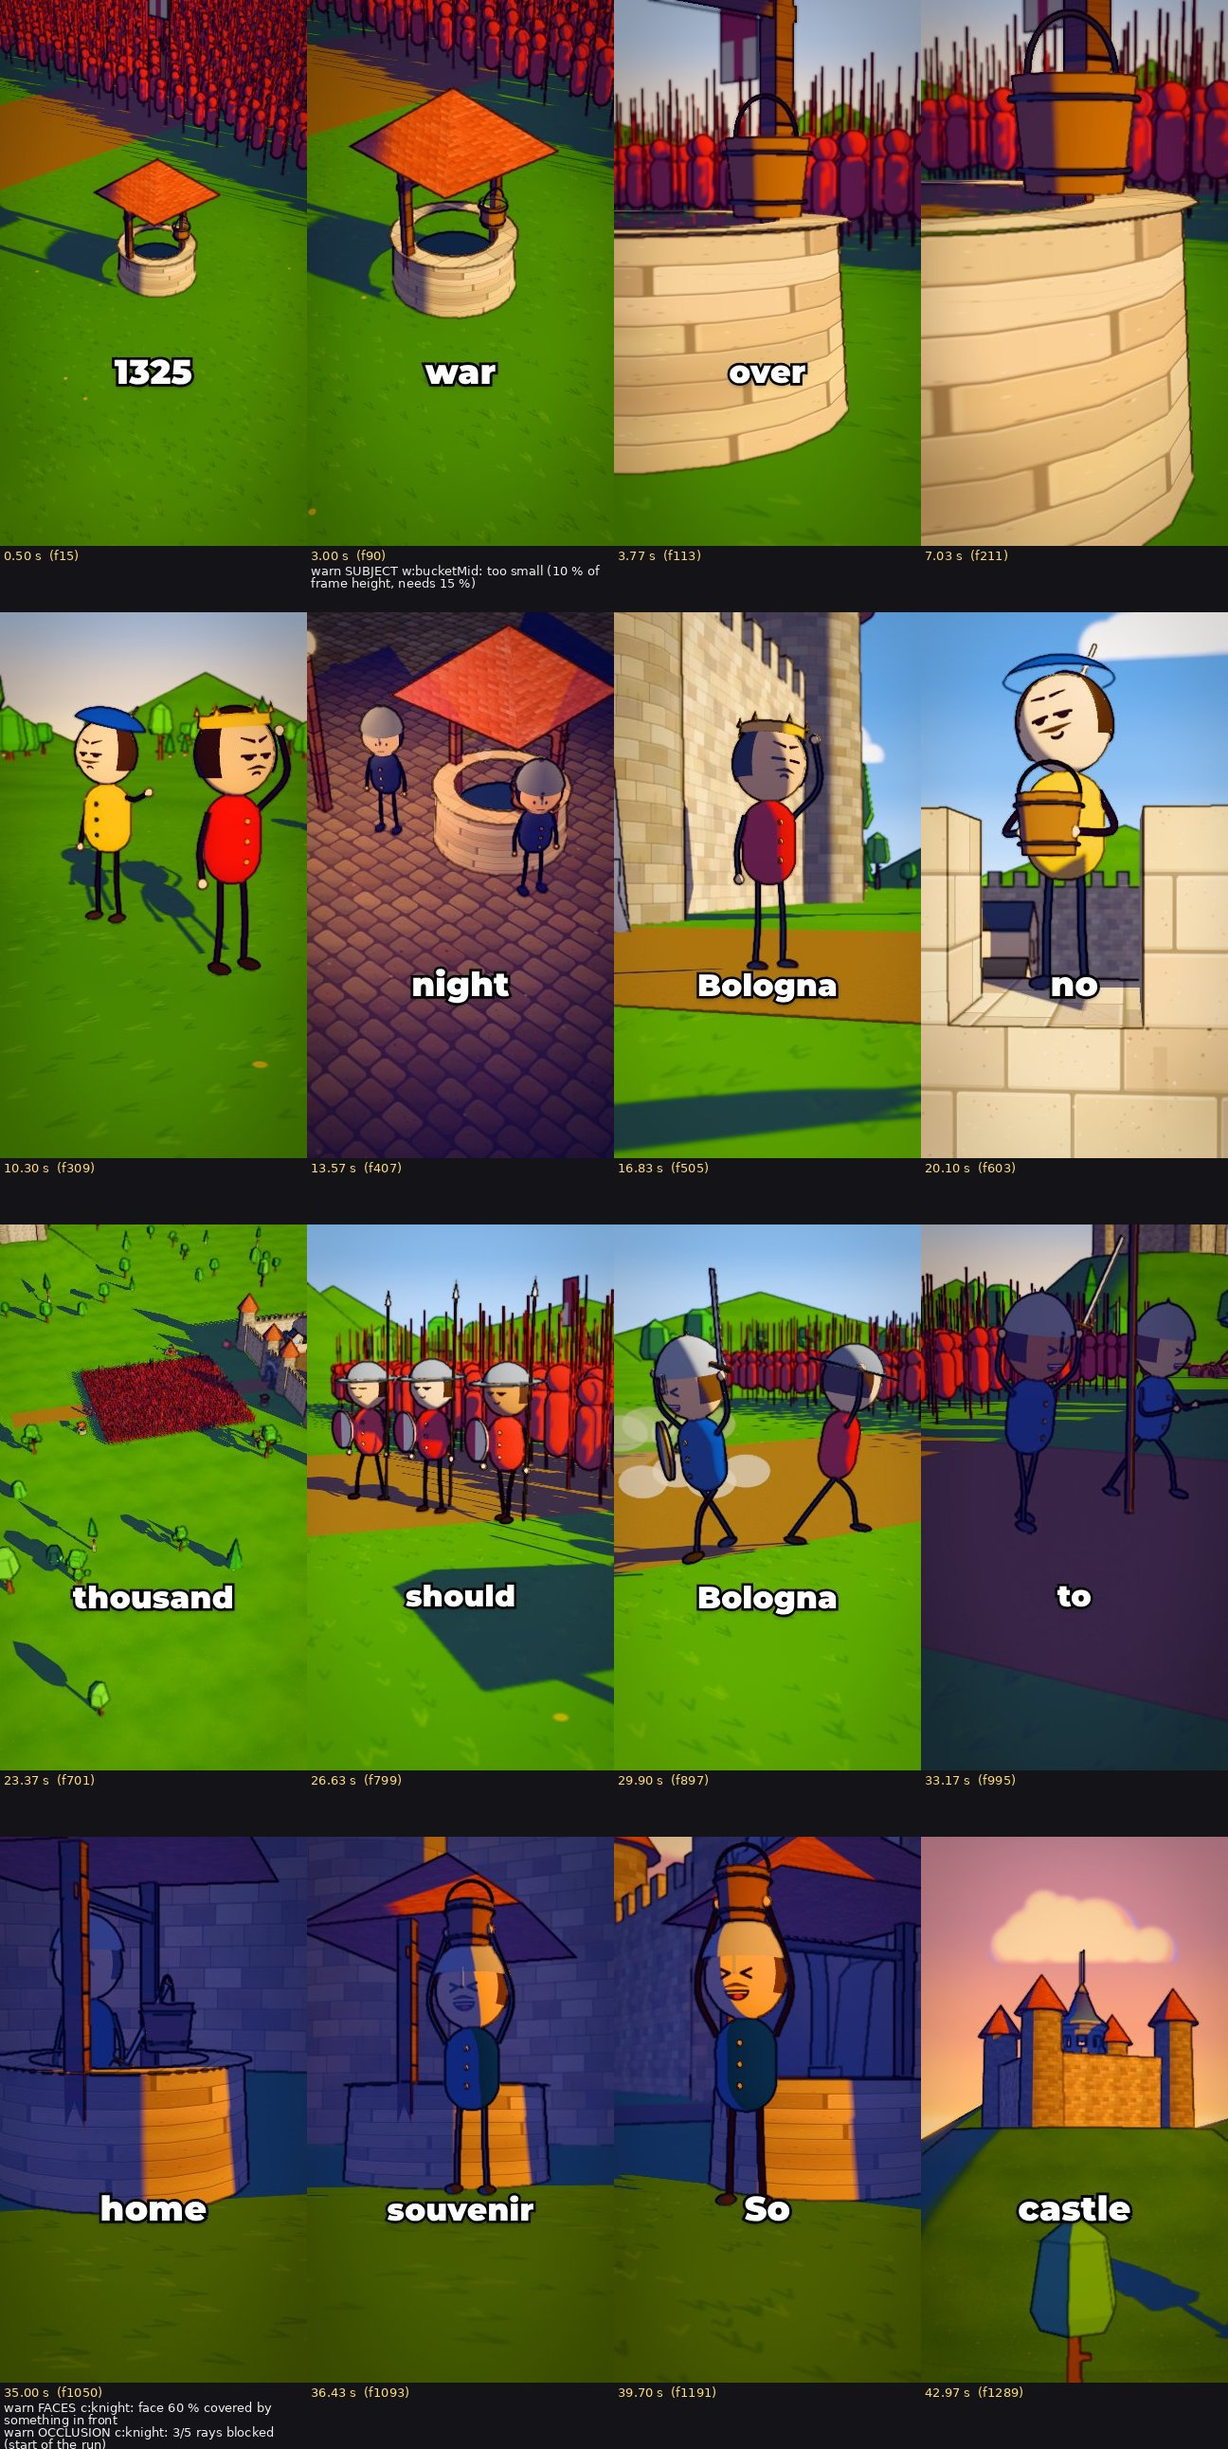
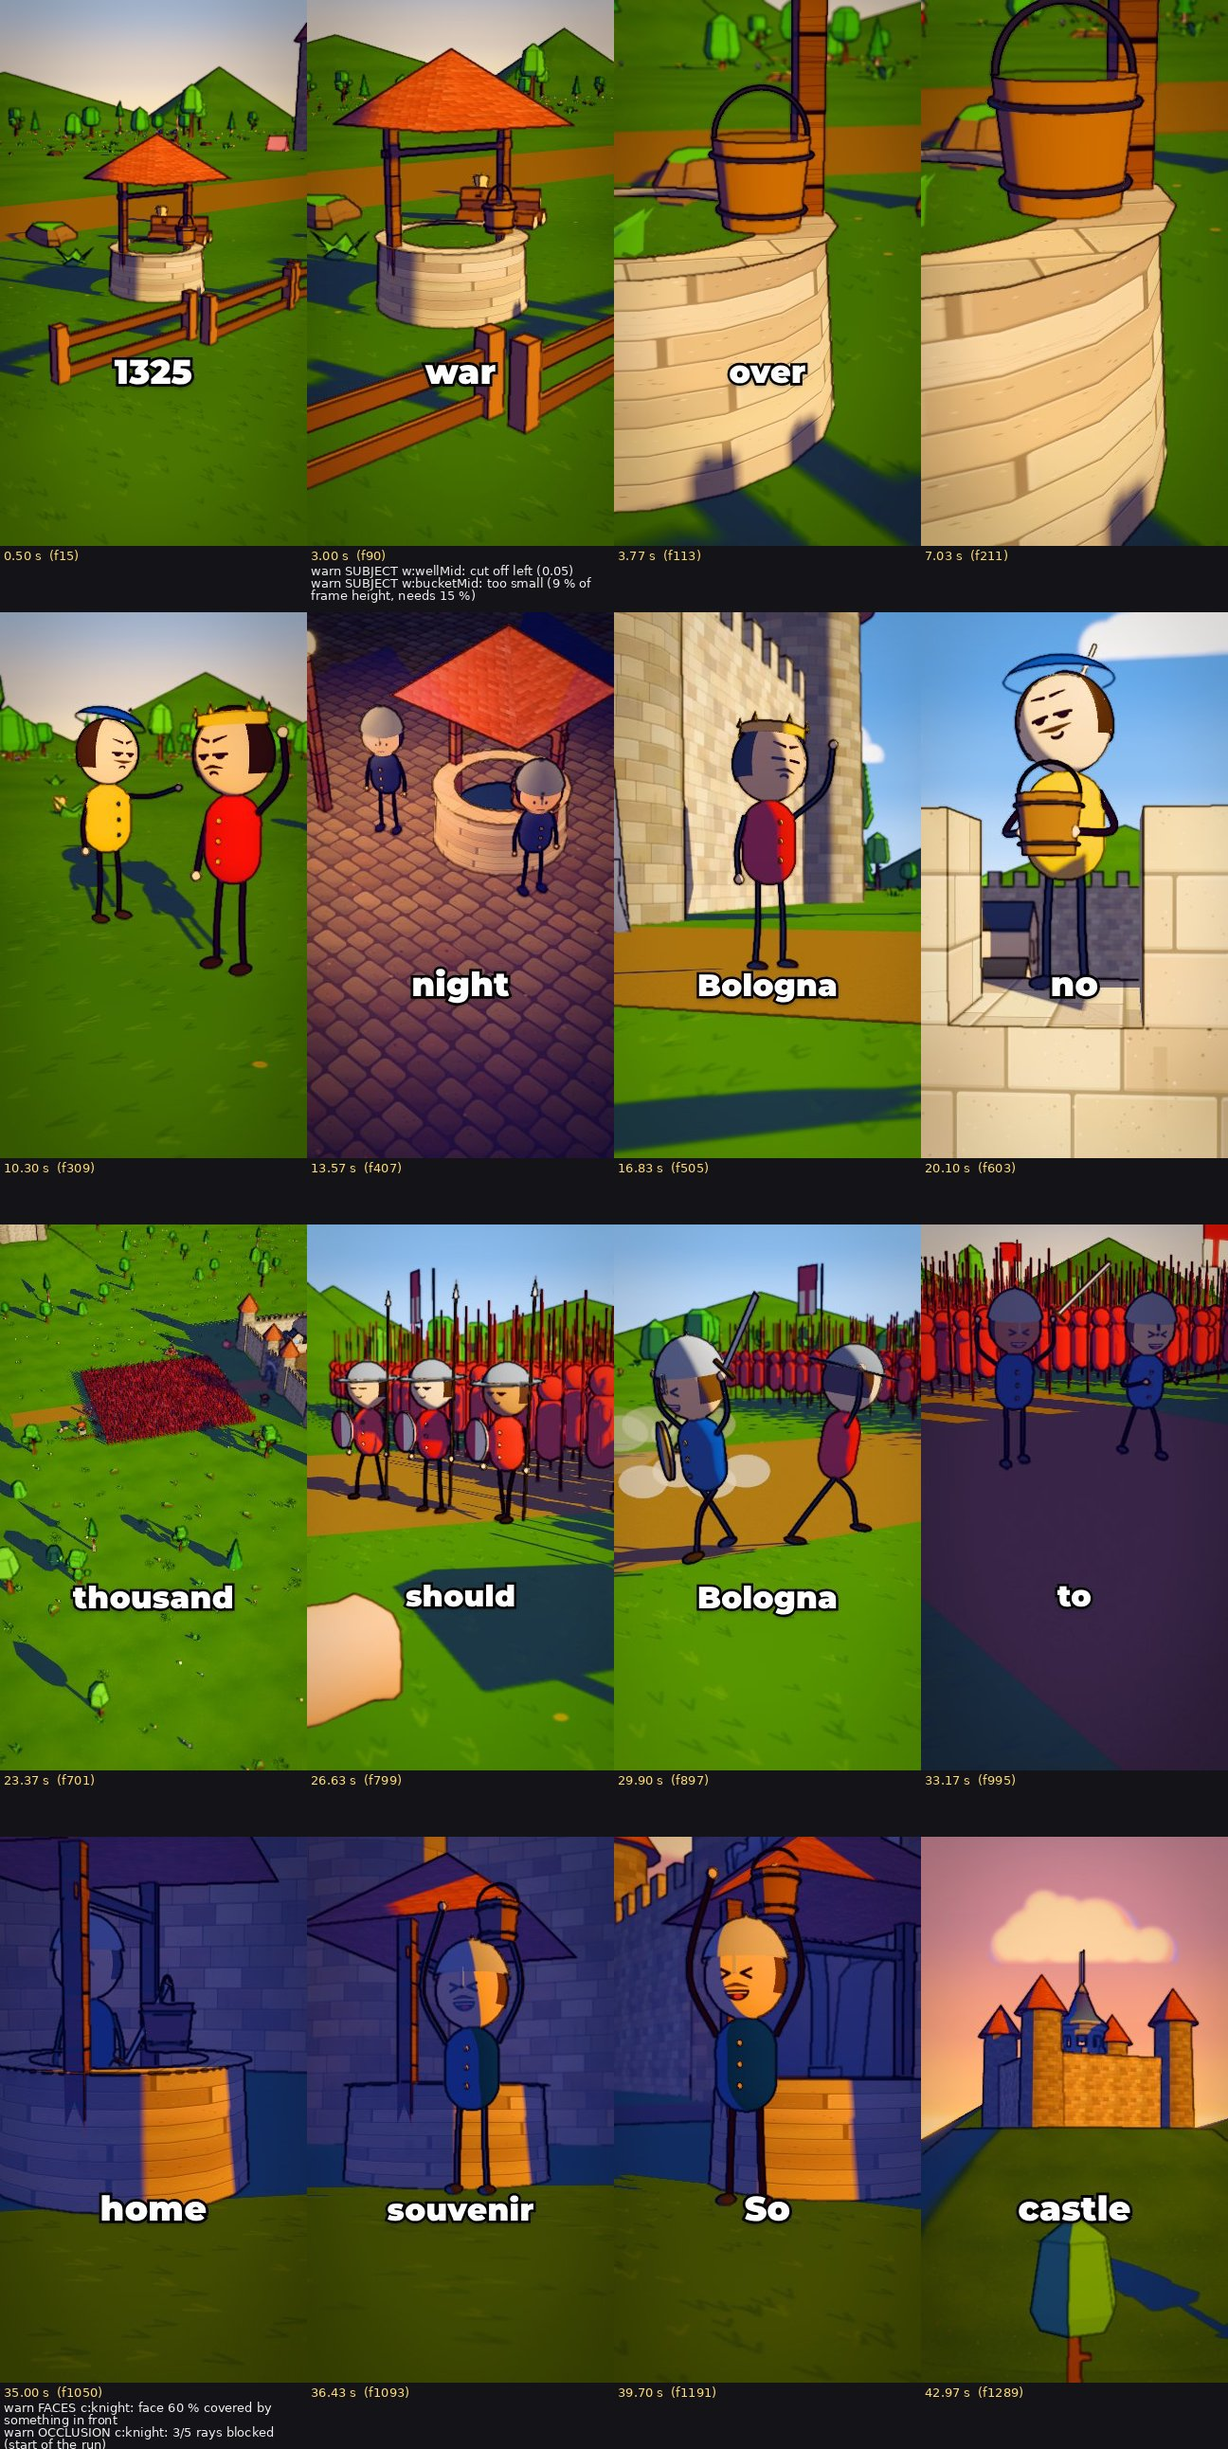
Bucket: ground cover, night look, army only from line 5, prop/pose fixes; guard CRITICAL 0; checkpoint stills
Claude-Session: https://claude.ai/code/session_012QSShdiUFjV1rrFH5PNZza

diff --git a/video/src/videos/bucket/sets.ts b/video/src/videos/bucket/sets.ts
@@ -9,7 +9,7 @@ import { rep, stoneHD, cobbleHD, grassHD, planksHD, roofHD, ctex } from "../brid
 import { ground, Lamp } from "../rats/hanoi";
 import { MODENA, BOLOGNA, Town, GATE_W, ROAD, WELL_MID, WELL_B, WELL_OUT, LORDS, RIDGE, ARMY, HILL, CASTLE, TOWER, ROOM_Y, ROOM_H, PIAZZA_M, CLASH } from "./layout";
 
-export type Sets = { lamps: Lamp[]; stars: THREE.Points; buckets: THREE.Group[]; army: THREE.InstancedMesh };
+export type Sets = { lamps: Lamp[]; stars: THREE.Points; buckets: THREE.Group[]; army: THREE.InstancedMesh; armyBanners: THREE.Object3D[] };
 const rng = (seed: number) => () => { seed = (seed * 1664525 + 1013904223) >>> 0; return seed / 4294967296; };
 
 const dirtTex = () => ctex("bkDirt", 512, 512, (g, r) => { g.fillStyle = "#b39a76"; g.fillRect(0, 0, 512, 512); for (let i = 0; i < 2500; i++) { g.fillStyle = ["#a68c68", "#c2a984", "#9c8462"][i % 3]; g.fillRect(r() * 512, r() * 512, 3, 3); } });
@@ -30,13 +30,13 @@ export function buildSets(R: THREE.Group, kit: Kit): Sets {
   const stone = lam("bkStone", () => ({ map: rep(stoneHD("bkStone", ["#c9b89e", "#bfae94", "#d2c2a8", "#b5a48a"], "#8f806c"), 1, 1) }));
   const stoneDark = lam("bkStoneD", () => ({ map: rep(stoneHD("bkStoneD", ["#a8987f", "#9f8f77", "#b0a088", "#968670"], "#776a58"), 1, 1) }));
   const towerM = lam("bkTowerM", () => ({ map: rep(stoneHD("bkStoneD", ["#a8987f", "#9f8f77", "#b0a088", "#968670"], "#776a58"), 5, 4) }));
-  const grass = lam("bkGrass", () => ({ map: grassHD(), color: "#a9b48c" }));
+  const grass = lam("bkGrass", () => ({ map: grassHD(), color: "#9a9a76" }));
   const dirt = lam("bkDirtM", () => ({ map: rep(dirtTex(), 6, 6), color: "#b9a888" }));
   const cobble = lam("bkCobble", () => ({ map: cobbleHD(), color: "#a39588" }));
   const wood = lam("bkWood", () => ({ map: rep(planksHD(), 1, 1), color: "#a88f72" }));
   const roofT = lam("bkRoofT", () => ({ map: rep(roofHD("#b5583a"), 2, 2) }));
   const bx = (mat: THREE.Material, x0: number, y0: number, z0: number, x1: number, y1: number, z1: number) => b.add(boxGeo(V(x0, y0, z0), V(x1, y1, z1), 2.5), mat);
-  const hillG = lam("bkHill", () => ({ map: rep(grassHD(), 14, 3), color: "#a9b48c" }));
+  const hillG = lam("bkHill", () => ({ map: rep(grassHD(), 14, 3), color: "#9a9a76" }));
   const add = (name: string, x: number, y: number, z: number, s: number, rot = 0) => {
     const o = kit[name]; if (!o) return;
     b.addObject(o, new THREE.Matrix4().compose(V(x, y, z), new THREE.Quaternion().setFromEuler(new THREE.Euler(0, rot, 0)), V(s, s, s)));
@@ -136,6 +136,12 @@ export function buildSets(R: THREE.Group, kit: Kit): Sets {
   const trees = ["tree_oak", "tree_default", "tree_detailed", "tree_pineRoundE", "tree_pineTallB_detailed", "tree_fat"];
   for (let i = 0; i < 220; i++) { const x = -150 + r() * 300, z = -140 + r() * 280; if (!clearOf(x, z)) continue; add(trees[i % trees.length], x, 0, z, 3.6 + r() * 2.4, r() * 6.3); }
   for (let i = 0; i < 18; i++) { const a = (i / 18) * Math.PI * 2, d = 260 + (i % 3) * 30; b.add(new THREE.ConeGeometry(55 + (i % 4) * 12, 26 + (i % 3) * 10, 12, 1), hillG, new THREE.Matrix4().makeTranslation(Math.cos(a) * d, 10, Math.sin(a) * d)); }
+  // ground cover everywhere on the plain (bushes, grass tufts, flowers, rocks), and a little farm round the lone well
+  const cover = ["grass_large", "grass_leafsLarge", "flower_yellowA", "flower_redB", "flower_purpleA", "plant_bush", "plant_bushSmall", "rock_largeA", "grass_large", "flower_yellowC"];
+  for (let i = 0; i < 1400; i++) { const x = -140 + r() * 280, z = -130 + r() * 260; if (!clearOf(x, z) && Math.hypot(x - WELL_MID.x, z - WELL_MID.z) > 9) continue;
+    const n = cover[i % cover.length], d = Math.hypot(x - WELL_MID.x, z - WELL_MID.z); if (d < 2.2) continue; add(n, x, 0, z, n.startsWith("rock") ? 1.2 + r() : 2.2 + r() * 1.6, r() * 6.3); }
+  for (const [n, dx, dz, sc, ro] of [["hay-bale", -3.2, -2.4, 1.4, 0.3], ["hay-bale", -4.4, -1.6, 1.4, 1.2], ["log_stack", 3.6, -3.0, 2.2, 0.5], ["fence_simple", -2.6, 3.4, 2.4, 0], ["fence_simple", -0.2, 3.6, 2.4, 0.1], ["fence_simple", 2.2, 3.4, 2.4, -0.1], ["rock_largeB", 4.2, 1.6, 1.4, 0.7], ["plant_bushLarge", -5.2, 1.2, 2.6, 0]] as [string, number, number, number, number][])
+    add(n, WELL_MID.x + dx, 0, WELL_MID.z + dz, sc, ro);
   // camps on the plain (tents, siege engines) and market clutter in the towns
   for (const [n, x, z, s, ro] of [["tent_detailedOpen", 46, -22, 3.2, 0.4], ["tent_detailedClosed", 52, 26, 3.2, 1.1], ["siege-catapult", 30, -22, 2.0, 0.2], ["siege-trebuchet", 36, 24, 2.2, -0.4], ["tent_detailedClosed", -34, -14, 3.0, 2.0], ["siege-ram", -36, 14, 2.0, 1.4],
     ["cart", 66, -4, 2.2, 0.6], ["barrel", 75, -2.5, 0.6, 0], ["stall-red", 63, 10, 2.0, Math.PI], ["stall-green", -63, -10, 2.0, 0], ["cart", -75, 4, 2.2, -0.5], ["barrel", -60, 3.5, 0.6, 0]] as [string, number, number, number, number][]) add(n, x, 0.03, z, s, ro);
@@ -156,10 +162,11 @@ export function buildSets(R: THREE.Group, kit: Kit): Sets {
       m.compose(V(x, 0, z), new THREE.Quaternion().setFromEuler(new THREE.Euler(0, -Math.PI / 2 + (r() - 0.5) * 0.3, 0)), V(1, 0.95 + r() * 0.1, 1)); army.setMatrixAt(k++, m); } }
   army.castShadow = true; army.receiveShadow = true; army.frustumCulled = false; R.add(army);
   // banners above the host (Bologna red and white)
+  const armyBanners: THREE.Object3D[] = [];
   const bannerTex = ctex("bkBannerB", 128, 192, (g) => { g.fillStyle = "#f4f1ea"; g.fillRect(0, 0, 128, 192); g.fillStyle = "#b8302c"; g.fillRect(0, 0, 128, 96); g.fillRect(48, 96, 32, 96); });
   for (let i = 0; i < 9; i++) { const x = ARMY.x0 + 3 + (i % 3) * 13, z = ARMY.z0 + 4 + Math.floor(i / 3) * 12;
-    const pole = new THREE.Mesh(new THREE.CylinderGeometry(0.04, 0.04, 4.5, 5), lam("bkPole", () => ({ color: "#5a3a24" }))); pole.position.set(x, 2.25, z); R.add(pole);
-    const fl = new THREE.Mesh(new THREE.PlaneGeometry(1.1, 1.6), lam("bkBannerBm", () => ({ map: bannerTex, side: THREE.DoubleSide }))); fl.position.set(x - 0.6, 3.6, z); fl.rotation.y = Math.PI / 2; R.add(fl); }
+    const pole = new THREE.Mesh(new THREE.CylinderGeometry(0.04, 0.04, 4.5, 5), lam("bkPole", () => ({ color: "#5a3a24" }))); pole.position.set(x, 2.25, z); R.add(pole); pole.userData.x0 = x; armyBanners.push(pole);
+    const fl = new THREE.Mesh(new THREE.PlaneGeometry(1.1, 1.6), lam("bkBannerBm", () => ({ map: bannerTex, side: THREE.DoubleSide }))); fl.position.set(x - 0.6, 3.6, z); fl.rotation.y = Math.PI / 2; R.add(fl); fl.userData.x0 = x - 0.6; armyBanners.push(fl); }
 
   // ---- the buckets on the wells and on the plinth (world.ts shows / hides them as the story moves them) ----
   const buckets = [WELL_MID.clone().add(V(0.55, 0.81, 0.2)), WELL_B.clone().add(V(0.55, 0.81, 0.2)), WELL_OUT.clone().add(V(0.55, 0.81, 0.2)), V(TOWER.x, ROOM_Y + 1.0, TOWER.z)].map((p) => { const g = bucketMesh(); g.position.copy(p); R.add(g); return g; });
@@ -171,7 +178,8 @@ export function buildSets(R: THREE.Group, kit: Kit): Sets {
   const stars = new THREE.Points(sg, new THREE.PointsMaterial({ color: new THREE.Color(2.2, 2.2, 2.4), size: 3.0, sizeAttenuation: false, fog: false, depthWrite: false }));
   R.add(stars);
   void ROOM_H;
-  return { lamps, stars, buckets, army };
+  return { lamps, stars, buckets, army, armyBanners };
 }
 export const SET_KIT = ["castle-gate", "building-sample-house-a", "building-sample-house-b", "building-sample-house-c", "building-sample-tower-a", "flag-banner-long", "tower-complete-large",
+  "grass_large", "grass_leafsLarge", "flower_yellowA", "flower_redB", "flower_purpleA", "flower_yellowC", "plant_bush", "plant_bushSmall", "plant_bushLarge", "rock_largeA", "rock_largeB", "hay-bale", "log_stack", "fence_simple",
   "tree_oak", "tree_default", "tree_detailed", "tree_pineRoundE", "tree_pineTallB_detailed", "tree_fat", "tent_detailedOpen", "tent_detailedClosed", "siege-catapult", "siege-trebuchet", "siege-ram", "cart", "barrel", "stall-red", "stall-green"];

diff --git a/video/src/videos/bridge/char3d.ts b/video/src/videos/bridge/char3d.ts
@@ -164,9 +164,9 @@ const pose = (gest: string, k: number): [Arm, Arm] => {
     case "clutch": return [[[-0.19, 1.07, 0], [-0.26, 0.9, 0.12], [-0.07, 1.02, 0.22]], [[0.19, 1.07, 0], [0.26, 0.9, 0.12], [0.07, 1.02, 0.22]]];
     case "tip": return [L, [[0.19, 1.07, 0], [0.38, 1.24, 0.1], [0.21, 1.5 + 0.02 * w, 0.17]]];
     case "sign": return [L, [[0.19, 1.07, 0], [0.29, 0.86, 0.16], [0.14 + 0.03 * w, 0.8, 0.34]]];
-    case "fist": return [L, [[0.19, 1.07, 0], [0.36, 1.3, 0.08], [0.3 + 0.04 * w, 1.62 + 0.03 * w, 0.12]]];
+    case "fist": return [L, [[0.19, 1.07, 0], [0.42, 1.3, 0.08], [0.46 + 0.04 * w, 1.6 + 0.03 * w, 0.12]]];
     case "hug": return [[[-0.19, 1.07, 0], [-0.3, 0.86, 0.12], [-0.13, 0.84, 0.3]], [[0.19, 1.07, 0], [0.3, 0.86, 0.12], [0.13, 0.84, 0.3]]];
-    case "lift": return [[[-0.19, 1.07, 0], [-0.3, 1.36, 0.06], [-0.15, 1.86 + 0.02 * w, 0.1]], [[0.19, 1.07, 0], [0.3, 1.36, 0.06], [0.15, 1.86 + 0.02 * w, 0.1]]];
+    case "lift": return [[[-0.19, 1.07, 0], [-0.36, 1.45, 0.04], [-0.2, 2.06 + 0.02 * w, 0.06]], [[0.19, 1.07, 0], [0.36, 1.45, 0.04], [0.2, 2.06 + 0.02 * w, 0.06]]];
     case "charge": return [[[-0.19, 1.07, 0], [-0.3, 0.9, 0.16], [-0.12, 0.98, 0.36]], [[0.19, 1.07, 0], [0.3, 0.9, 0.12], [0.22, 0.98, 0.3]]];
     case "run": return [[[-0.19, 1.07, 0], [-0.27, 0.86, -0.12 * w], [-0.24, 0.98, 0.2 * w]], [[0.19, 1.07, 0], [0.27, 0.86, 0.12 * w], [0.24, 0.98, -0.2 * w]]];
     case "flee": return [[[-0.19, 1.07, 0], [-0.36, 1.28, 0.02], [-0.4 - 0.05 * w, 1.55, 0.0]], [[0.19, 1.07, 0], [0.36, 1.28, 0.02], [0.4 + 0.05 * w, 1.55, 0.0]]];
@@ -297,14 +297,14 @@ export class Char3D {
     const two2 = Math.abs(hR[0] - hL[0]) < 0.4;
     this.bucket.visible = !!x.bucket;
     if (x.bucket) {
-      if (two2) this.bucket.position.set((hR[0] + hL[0]) / 2, (hR[1] + hL[1]) / 2 - 0.12 + dy + bob, Math.max(hR[2], hL[2]) - 0.02);
+      if (two2) this.bucket.position.set((hR[0] + hL[0]) / 2, (hR[1] + hL[1]) / 2 - (l.gest === "lift" ? 0.02 : 0.12) + dy + bob, Math.max(hR[2], hL[2]) - 0.02);
       else this.bucket.position.set(hR[0], hR[1] - 0.29 + dy + bob, hR[2]);
       this.bucket.scale.setScalar(two2 ? 1.15 : 1);
     }
     this.spear.visible = !!x.spear;
     if (x.spear) { this.spear.position.set(hR[0], hR[1] + dy + bob, hR[2]); this.spear.rotation.set(l.gest === "charge" ? 1.25 : 0.05, 0, l.gest === "charge" ? 0 : -0.06); }
     this.sword.visible = !!x.sword;
-    if (x.sword) { this.sword.position.set(hR[0], hR[1] + dy + bob, hR[2]); this.sword.rotation.set(0.2, 0, l.gest === "fist" || l.gest === "cheer" ? -0.25 : -0.5); }
+    if (x.sword) { this.sword.position.set(hR[0], hR[1] + dy + bob, hR[2]); this.sword.rotation.set(0.2, 0, l.gest === "fist" || l.gest === "cheer" ? -0.75 : -0.5); }
     this.banner.visible = !!x.banner;
     if (x.banner) { this.banner.position.set(hL[0], hL[1] + dy + bob, hL[2]); this.bannerMat.map = bannerTex(x.banner); this.banner.children[1].rotation.y = 0.25 * Math.sin(ph + k * 6.283); }
     this.shield.visible = !!x.shield;

diff --git a/video/src/videos/bucket/stage.ts b/video/src/videos/bucket/stage.ts
@@ -53,8 +53,8 @@ const W = (dx: number, dy: number, dz: number, c: THREE.Vector3) => V(c.x + dx, 
 const lords = (t: number, s: Stage) => {
   if (!between(t, wt(1, "story") - 0.3, wt(3, "Legend") + 0.4)) return;
   const glare = after(t, 2, "hated");
-  s.places.push(P("lordM", LORD_M, { expr: glare ? "stern" : "smug", gest: glare ? "point" : "hang", blink: blinkAt(t, 3), headTilt: glare ? -4 : 0 }, {}, W(-0.85, 0, 0, LORDS), { turn: -0.6 }));
-  s.places.push(P("lordB", LORD_B, { expr: glare ? "stern" : "smug", gest: glare ? "fist" : "hang", k: q((t * 2.5) % 1, 8), blink: blinkAt(t, 4), headTilt: glare ? 4 : 0 }, {}, W(0.85, 0, 0, LORDS), { turn: 0.6 }));
+  s.places.push(P("lordM", LORD_M, { expr: glare ? "stern" : "smug", gest: glare ? "point" : "hang", blink: blinkAt(t, 3), headTilt: glare ? -4 : 0 }, {}, W(-0.85, 0, 0, LORDS), { turn: 0.6 }));
+  s.places.push(P("lordB", LORD_B, { expr: glare ? "stern" : "smug", gest: glare ? "fist" : "hang", k: q((t * 2.5) % 1, 8), blink: blinkAt(t, 4), headTilt: glare ? 4 : 0 }, {}, W(0.85, 0, 0, LORDS), { turn: -0.6 }));
   s.places.push(P("bgBannerM", MOD_SOLDIER(1), { expr: "neutral", gest: "hang", blink: blinkAt(t, 5) }, { banner: MOD_FLAG }, W(-2.4, 0, -5.5, LORDS), { size: LO, turn: -0.3 }));
   s.places.push(P("bgBannerB", BOL_SOLDIER(1), { expr: "neutral", gest: "hang", blink: blinkAt(t, 6) }, { banner: BOL_FLAG }, W(2.4, 0, -5.5, LORDS), { size: LO, turn: 0.3 }));
 };
@@ -138,7 +138,7 @@ const piazza = (t: number, s: Stage) => {
 // line 11: the tower room, today: a tourist with a phone looking at the bucket on its plinth; it glints
 const room = (t: number, s: Stage) => {
   if (t < wt(10, "kept")) return;
-  s.places.push(P("tourist", TOURIST, { expr: after(t, 11, "still") ? "laugh" : "grin", gest: after(t, 11, "still") ? "tip" : "hang", k: 1, blink: blinkAt(t, 110), look: -1 }, { phone: true }, [TOWER.x + 1.1, ROOM_Y, TOWER.z + 0.9], { turn: -0.5 }));
+  s.places.push(P("tourist", TOURIST, { expr: after(t, 11, "still") ? "smile" : "grin", gest: after(t, 11, "years") ? "palm" : "hang", k: 1, blink: blinkAt(t, 110), look: -1 }, { phone: true }, [TOWER.x + 1.1, ROOM_Y, TOWER.z + 0.9], { turn: 0.7 }));
   const u = q((Math.sin(t * 2.4) + 1) / 2, 6);
   if (after(t, 11, "still")) s.fx.push(card(`glint${u}`, 300, 300, glint(u), [TOWER.x + 0.12, ROOM_Y + 1.32, TOWER.z + 0.15], 0.3, 0.3));
   s.lights.push(warm(V(TOWER.x + 0.6, ROOM_Y + 2.4, TOWER.z + 1.2), 1.0));

diff --git a/video/src/videos/bucket/shots.ts b/video/src/videos/bucket/shots.ts
@@ -5,7 +5,7 @@ import { land } from "./story";
 import type { ShotSpec } from "../../guard/solve";
 
 export const SHOT_SPECS: ShotSpec[] = [
-  { t0: 0, subjects: ["w:wellMid"], size: "wide", angle: "high", move: "push", note: "1 in 1325 two Italian cities went to war: the lone well on the plain, a walled town behind" },
+  { t0: 0, subjects: ["w:wellMid"], size: "wide", move: "push", note: "1 in 1325 two Italian cities went to war: the lone well on the plain, a walled town behind" },
   { t0: land(1, "over"), subjects: ["w:bucketMid"], size: "insert", move: "push", note: "1 over a bucket: the plain wooden bucket on the well" },
   { t0: land(2), subjects: ["c:/^lord[MB]$/"], size: "medium", move: "drift", place: "centre", enter: "cut", note: "2 Modena and Bologna hated each other: the lords glare" },
   { t0: land(3), subjects: ["c:/^sneak[01]$/", "?w:wellB"], size: "medium", move: "drift", enter: "cut", note: "3 night in Bologna: two Modenese tiptoe to the town well" },

diff --git a/video/src/videos/bucket/looks.ts b/video/src/videos/bucket/looks.ts
@@ -33,7 +33,7 @@ const deep = (c: C3, k: number): C3 => [c[0] * k, c[1] * k, c[2] * k];
 const pass = (k: LookName, o: Partial<LightPreset>, rest: Partial<Look> = {}, shadeK = 0.6) => {
   const L = LOOKS[k]; LOOKS[k] = { ...L, ...rest, gradeK: 1, L: { ...L.L, shade: deep(L.L.shade, shadeK), lift: deep(L.L.lift, 0.7), ...o } };
 };
-pass("moonlit", { az: 80, el: 24, lit: [0.78, 0.88, 1.32], sunI: 2.2, fogNear: 160, fogFar: 1400 }, { glowK: 2.0 });
+pass("moonlit", { az: 80, el: 24, lit: [0.42, 0.52, 0.95], sunI: 1.5, fogNear: 120, fogFar: 900 }, { glowK: 2.4 }, 0.5);   // Bucket: a real night (the torches carry the thieves)
 pass("starry", { az: -75, el: 22, lit: [0.72, 0.8, 1.28], sunI: 2.1, fogNear: 200, fogFar: 1700 }, { glowK: 2.0 });
 pass("lamp", { el: 16, lit: [1.45, 0.92, 0.5] }, { glowK: 2.0 }, 0.55);
 pass("dim", { el: 14 }, { glowK: 2.0 }, 0.55);

diff --git a/video/src/videos/bucket/world.ts b/video/src/videos/bucket/world.ts
@@ -106,6 +106,8 @@ export class BucketWorld {
   /** time-driven parts of the world (also called by the camera guard): the marching host, the buckets that get taken */
   setTime(t: number) {
     this.sets.army.position.x = armyDX(t);
+    this.sets.army.visible = t >= wt(5) - 1;          // the host takes the field on line 5
+    for (const m of this.sets.armyBanners) m.visible = this.sets.army.visible, m.position.x = (m.userData.x0 as number) + armyDX(t);
     const b = this.sets.buckets;
     b[1].visible = t < wt(3, "stole") - 2 / 30;      // Bologna's town well: lifted by the thief on "stole"
     b[2].visible = t < wt(8, "grabbed") - 2 / 30;    // the well outside the walls: grabbed by the knight
